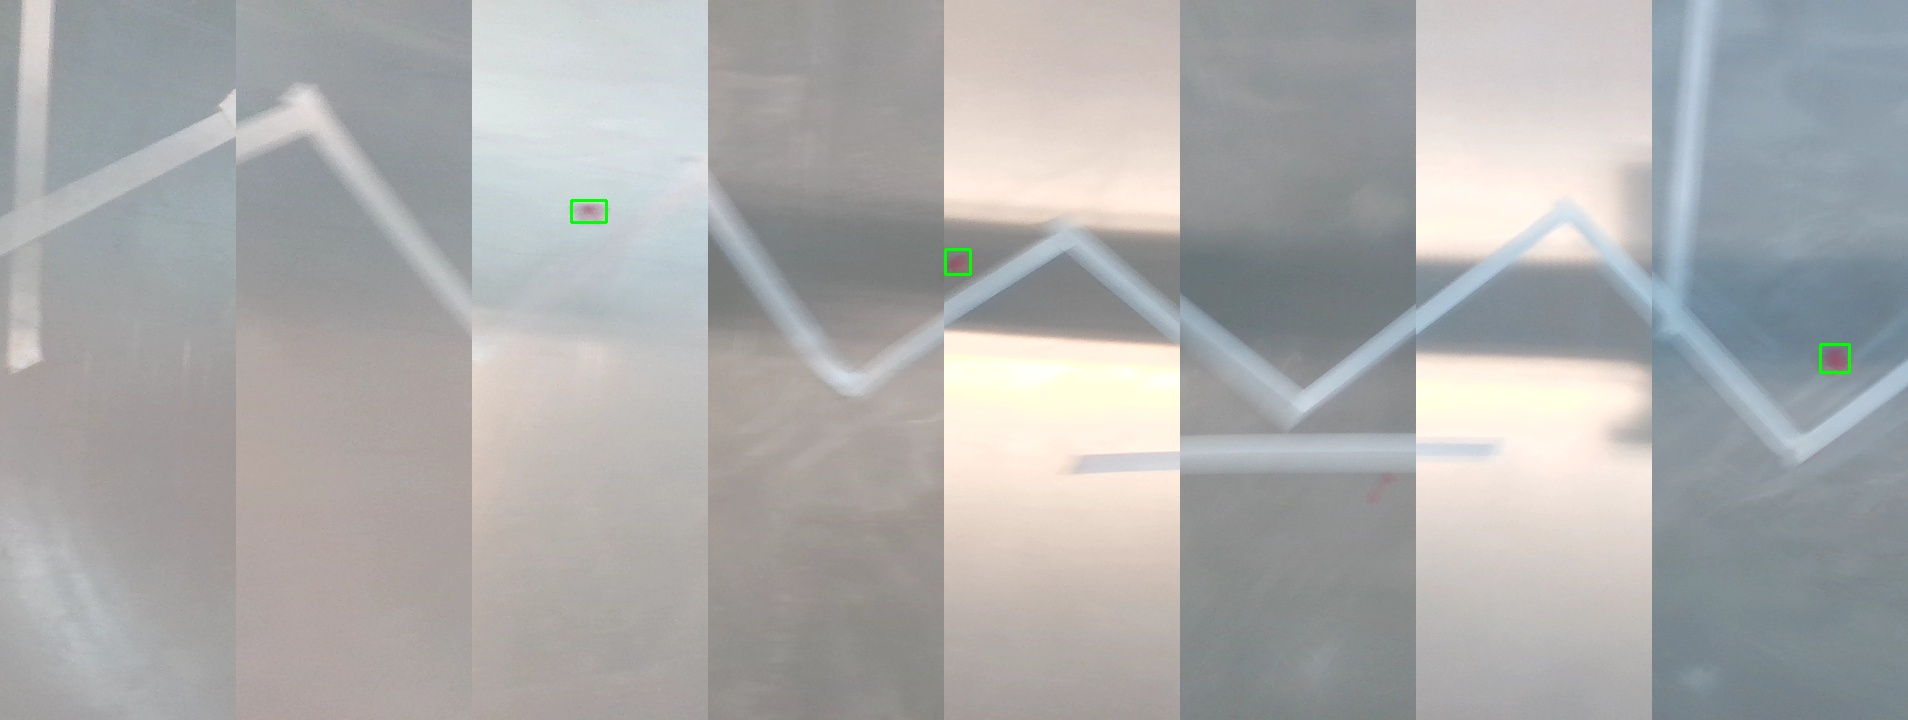
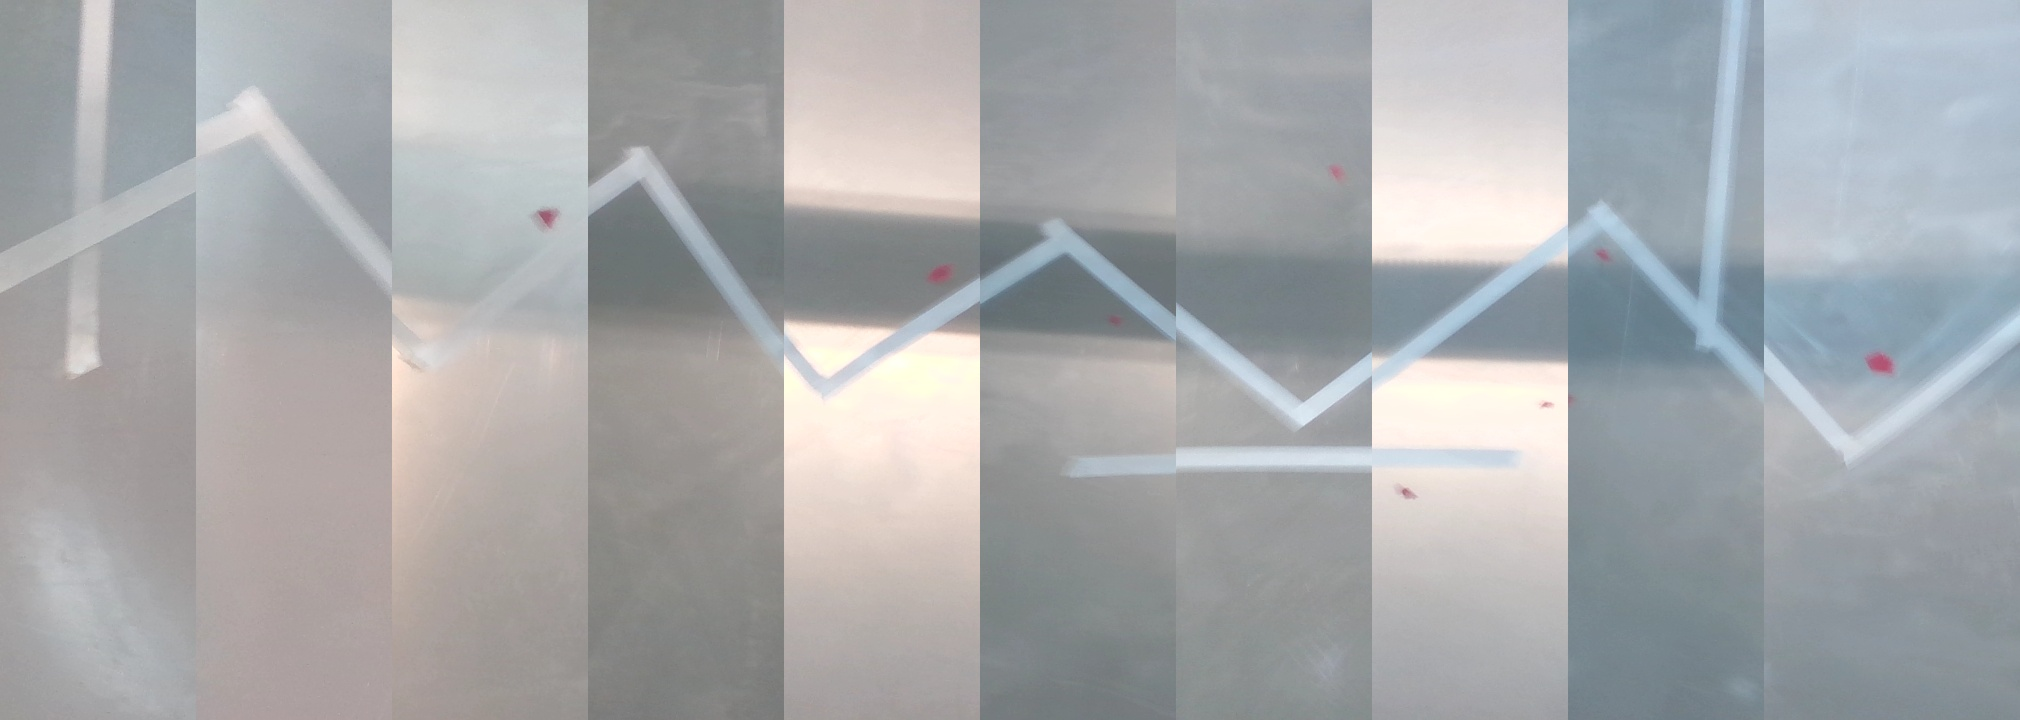
test scan

diff --git a/gantry/src/test_scanning.py b/gantry/src/test_scanning.py
@@ -14,8 +14,8 @@ class Scanner:
         self.frame_height = 1080  # Hoogte van de frame
 
         # Scanning-instellingen
-        self.scan_speed = 0.5  # Bewegingstijd tussen frames (in seconden)
-        self.overlap = 20  # Pixels overlap tussen frames (verlaagd voor minder overlap)
+        self.scan_speed = 0.85  # Bewegingstijd tussen frames (in seconden)
+        self.overlap = 60  # Pixels overlap tussen frames (verlaagd voor minder overlap)
         self.crop_percentage = 0.3  # Percentage van beeldbreedte dat wordt gebruikt
 
         path_model = Path(__file__).parent / "best.pt"
@@ -144,15 +144,15 @@ class Scanner:
             # Wacht een beetje voor de volgende beweging
             time.sleep(self.scan_speed)
 
-        results = self.yolo_model(stitched_image)
+        # results = self.yolo_model(stitched_image)
 
-        for result in results:
-                boxes = result.boxes  # Haal de bounding boxes op
-                for box in boxes:
-                    # Verkrijg de coördinaten van de bounding box
-                    x1, y1, x2, y2 = map(int, box.xyxy[0])  # Converteer naar integers
-                    # Teken alleen de bounding box op het frame
-                    cv2.rectangle(stitched_image, (x1, y1), (x2, y2), (0, 255, 0), 2)  # Groen met dikte 2
+        # for result in results:
+        #         boxes = result.boxes  # Haal de bounding boxes op
+        #         for box in boxes:
+        #             # Verkrijg de coördinaten van de bounding box
+        #             x1, y1, x2, y2 = map(int, box.xyxy[0])  # Converteer naar integers
+        #             # Teken alleen de bounding box op het frame
+        #             cv2.rectangle(stitched_image, (x1, y1), (x2, y2), (0, 255, 0), 2)  # Groen met dikte 2
         
         # Sla het gestitchte beeld op
         if stitched_image is not None:
@@ -190,11 +190,11 @@ async def main():
     await arduino.Relay("ON")
     await scanner.check_if_camera_is_home()
     await arduino.change_speed_motor(motor="Mold", speed=500)
-    await arduino.change_speed_motor(motor="Camera", speed=600)  # Verhoogde snelheid
+    await arduino.change_speed_motor(motor="Camera", speed=300)  # Verhoogde snelheid
 
     await arduino.send_steps(0, steps)  # Send steps to Arduino
     try:
-        scanner.scan_start(duration=5)  # Scan 5 seconden
+        scanner.scan_start(duration=10)  # Scan 5 seconden
     finally:
         scanner.release()
 
